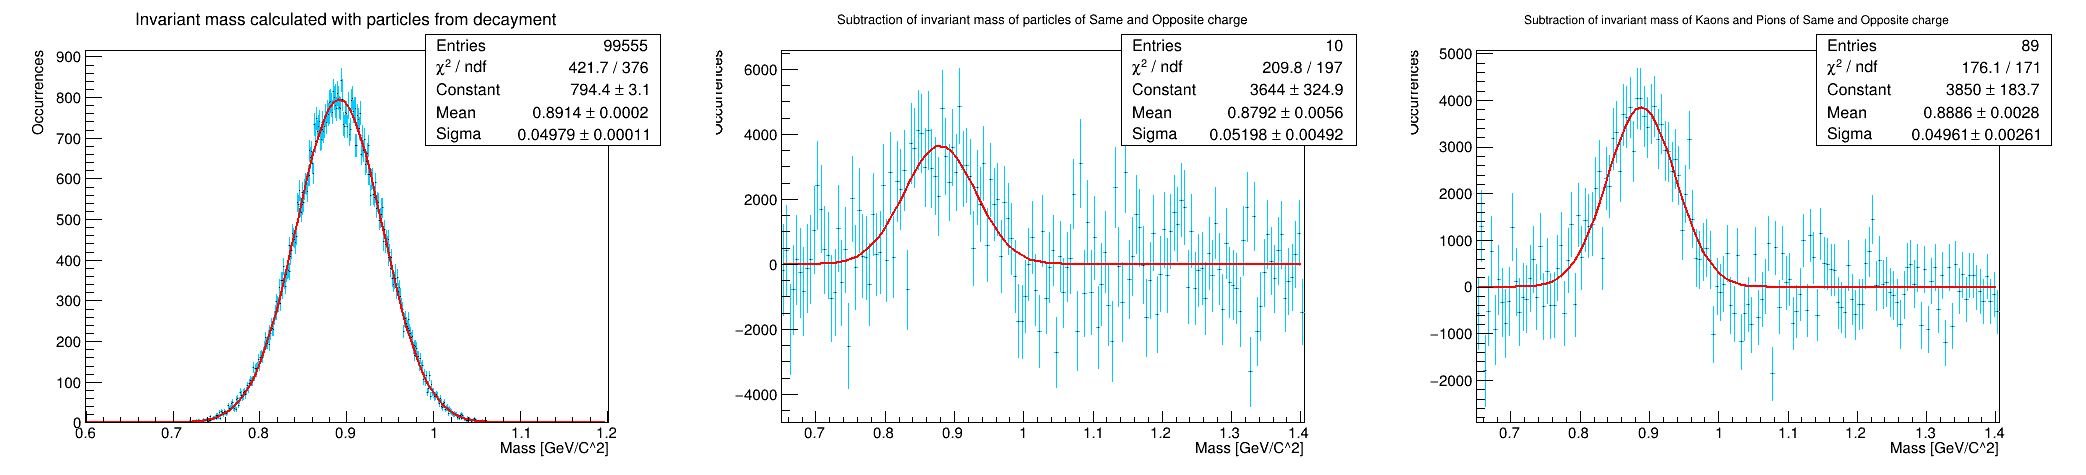
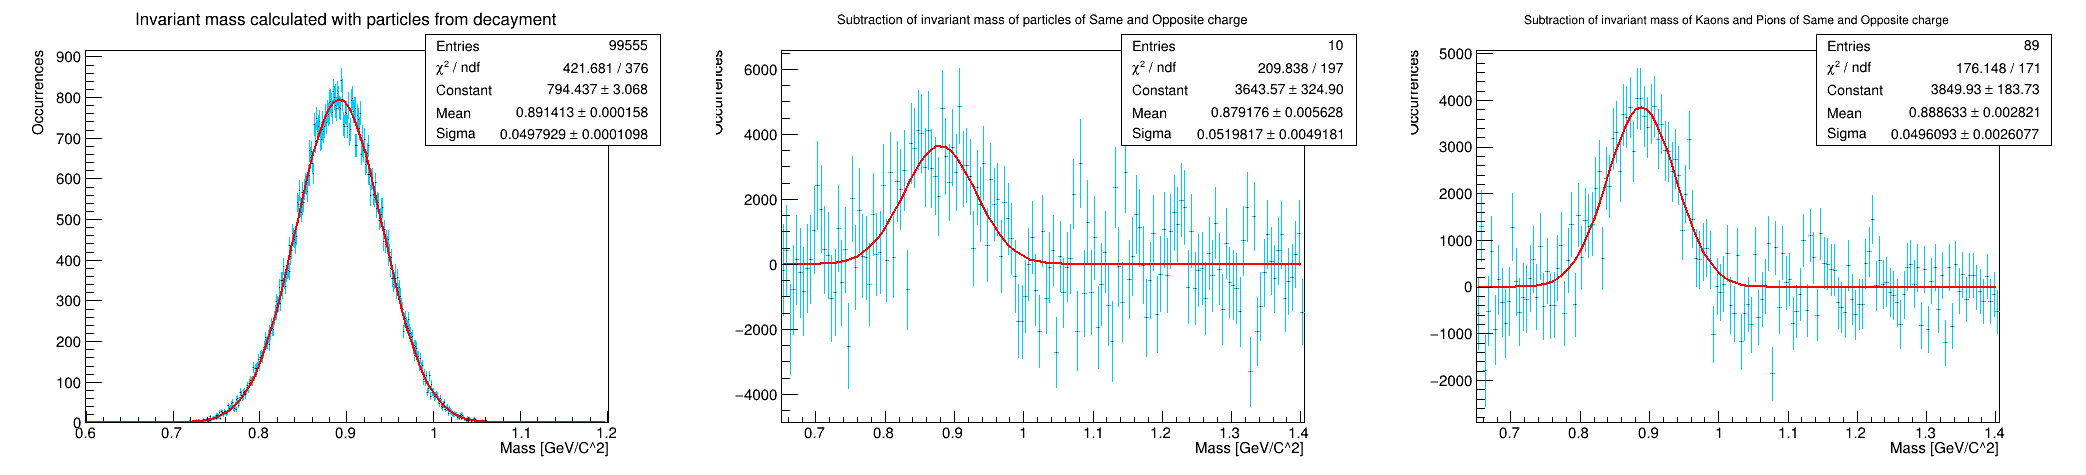
fixed errors

diff --git a/Analysis.cpp b/Analysis.cpp
@@ -8,6 +8,7 @@
 void analyze(){
 gStyle->SetOptStat("e");
 gStyle->SetOptFit(1);
+gStyle->SetFitFormat("7.6g");
 gStyle->SetHistFillColor(kCyan);
 gStyle->SetHistLineColor(kAzure+10);
 
@@ -38,7 +39,7 @@ std::cout<<"Pions+:"<<hPType->GetBinContent(1)<<"+/-"<<hPType->GetBinError(1)<<"
          <<"Kaone+:"<<hPType->GetBinContent(3)<<"+/-"<<hPType->GetBinError(3)<<"\n"
          <<"Kaons-:"<<hPType->GetBinContent(4)<<"+/-"<<hPType->GetBinError(4)<<"\n"
          <<"Protons+:"<<hPType->GetBinContent(5)<<"+/-"<<hPType->GetBinError(5)<<"\n"
-         <<"Protons-:"<<hPType->GetBinContent(6)<<"+/-"<<hPType->GetBinError(7)<<"\n"
+         <<"Protons-:"<<hPType->GetBinContent(6)<<"+/-"<<hPType->GetBinError(6)<<"\n"
          <<"K*"<<hPType->GetBinContent(7)<<"+/-"<<hPType->GetBinError(7)<<"\n";
 
 cDis->cd(3);
